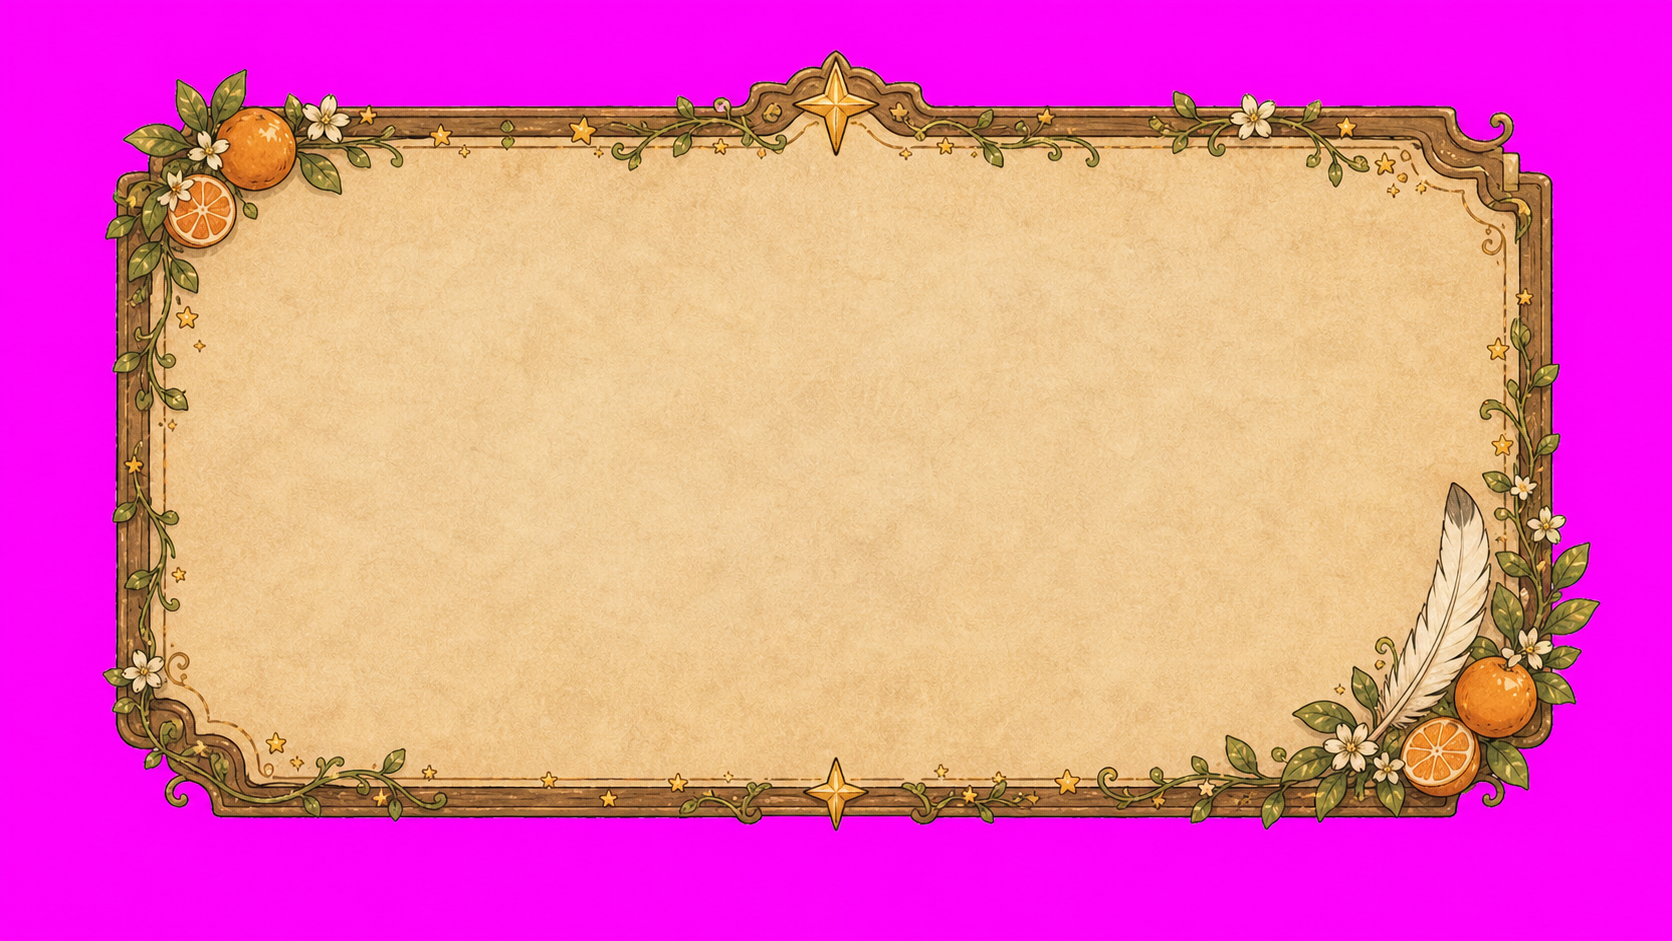
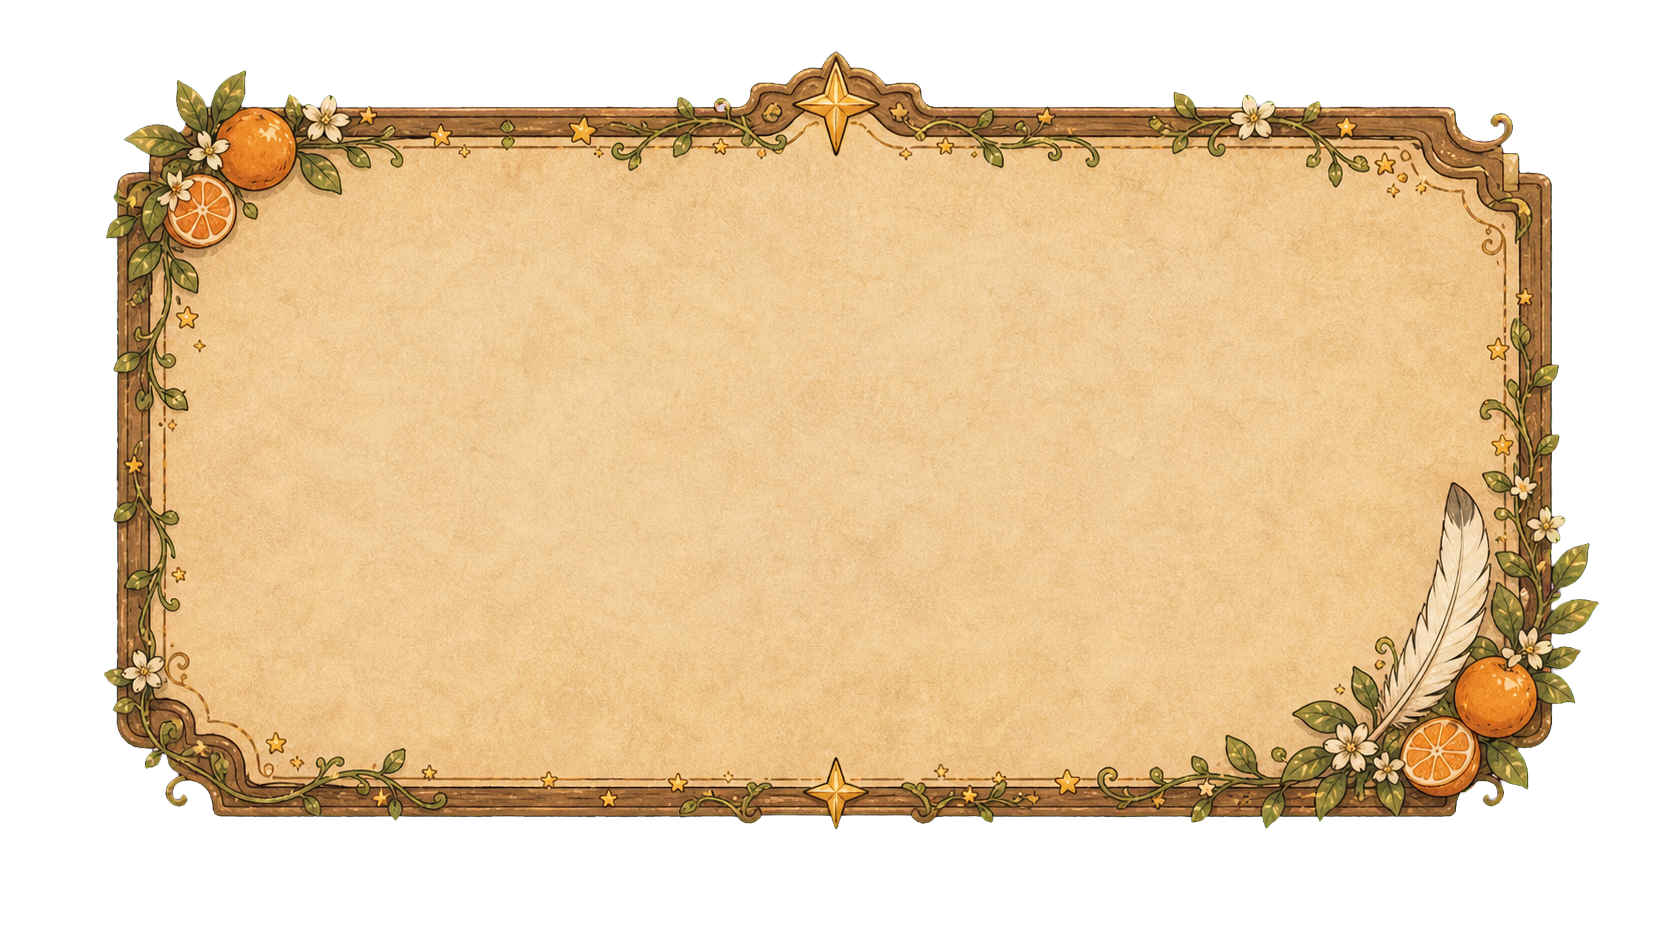
P4.6：P4生成UIアセットの透過処理・表示品質仕上げ

diff --git a/docs/PROGRESS.md b/docs/PROGRESS.md
@@ -2,10 +2,10 @@
 
 ## 現在の状態
 
-- 現在フェーズ: P4.5 DialogueBox・DialogueSystem・NPC基盤
-- 状態: P4.5実装完了。DOM/CSS会話枠、自動会話、NPC会話、会話既読flag保存、必須ポートレート/NPC画像生成、型・lint・build・dev HTTP・Edge headless確認まで完了
+- 現在フェーズ: P4.6 P4生成UIアセットの透過処理・表示品質仕上げ
+- 状態: P4.6実装完了。`star_icon_unlocked.png` と `star_map_panel_frame.png` のクロマキー背景を透明化し、型・lint・build・dev HTTP確認まで完了
 - 次に進むフェーズ: P5 複数敵対応BattleScreen本実装
-- 最終更新日: 2026-06-05
+- 最終更新日: 2026-06-06
 
 ## フェーズ別進捗
 
@@ -18,6 +18,7 @@
 | P3.5 | 道後温泉歩行可能領域改善 | 100% | 実装完了 | 型・lint・build・HTTP確認済み、Edge headless/CDPでG/H確認済み |
 | P4 | 星地図 | 100% | 実装完了 | 画像生成・型・lint・build・HTTP確認済み、Edge headless/CDPで通し確認済み |
 | P4.5 | DialogueBox・DialogueSystem・NPC基盤 | 100% | 実装完了 | 画像生成・型・lint・build・HTTP確認済み、Edge headlessで自動会話/NPC会話確認済み |
+| P4.6 | P4生成UIアセットの透過処理・表示品質仕上げ | 100% | 実装完了 | 透過PNG化・星地図背景上の合成プレビュー・型・lint・build・HTTP確認済み |
 | P5 | 複数敵対応バトル | 0% | 未着手 | 未実行 |
 | P6 | 道後温泉クエスト | 0% | 未着手 | 未実行 |
 | P7 | 松山城クエスト・カゲマサ戦 | 0% | 未着手 | 未実行 |
@@ -592,6 +593,42 @@ P5では複数敵対応BattleScreen本実装に入る。P4で整備した `StarM
 
 - `walkableRects` は矩形ベースの初期調整であり、背景画像の石畳輪郭と完全一致はしていない。
 - 将来、実際のプレイ感に合わせて `walkablePolygons` 化すると、道の斜め形状により自然に合わせられる。
+
+## 2026-06-06 P4.6: P4生成UIアセットの透過処理・表示品質仕上げ
+
+- 状態: 実装完了。
+- 対象外指定に従い、P5 BattleScreen本実装、カード効果、NPC会話追加、新しい星地図機能、松山城探索、道後クエスト完了処理には入っていない。
+- `public/assets/generated/ui/star_icon_unlocked.png` と `public/assets/generated/ui/star_map_panel_frame.png` を直接確認し、緑/マゼンタのクロマキー背景が残っていることを確認。
+- 元画像を `public/assets/generated/_backup/p4_6/` にバックアップした。
+- ローカルのクロマキー除去で、`star_icon_unlocked.png` の緑背景と `star_map_panel_frame.png` のマゼンタ背景を透明化した。
+- 両PNGが `Format32bppArgb` になり、四隅alphaが `0,0,0,0` であることを確認した。
+- 星地図背景上の合成プレビュー `C:\tmp\p4_6_star_map_preview.png` を作成し、解放済み星アイコンと星地図パネル枠が背景になじむことを確認した。
+- `docs/BUGS.md` の `P4-001` を未解決から解決済みに移動した。
+
+### P4.6 対象画像
+
+| ファイル | 処理内容 | 結果 |
+|---|---|---|
+| `public/assets/generated/ui/star_icon_unlocked.png` | 緑クロマキー背景を透明化、境界をsoft matte化、despill適用 | 解放済み星ノード用の透明PNGとして確認済み |
+| `public/assets/generated/ui/star_map_panel_frame.png` | マゼンタクロマキー背景を透明化、境界をsoft matte化、despill適用 | StarMapScreenのDOMパネル背景用の透明PNGとして確認済み |
+
+### P4.6 検証結果
+
+| コマンド / 確認 | 結果 | 備考 |
+|---|---|---|
+| `star_icon_unlocked.png` 透過処理 | 成功 | key color `#02f805`、透明ピクセル 1188070、半透明ピクセル 2870 |
+| `star_map_panel_frame.png` 透過処理 | 成功 | key color `#fd03fa`、透明ピクセル 554672、半透明ピクセル 6988 |
+| アルファ確認 | 成功 | 2件とも `Format32bppArgb`、四隅alpha `0,0,0,0` |
+| StarMapScreen相当の合成プレビュー | 成功 | `C:\tmp\p4_6_star_map_preview.png` で背景なじみを確認 |
+| `npm.cmd run typecheck` | 成功 | `tsc -p tsconfig.json --noEmit` |
+| `npm.cmd run lint` | 成功 | `eslint .` |
+| `npm.cmd run build` | 成功 | Vite build成功、38 modules transformed |
+| `npm.cmd run dev -- --host 127.0.0.1 --port 5206 --strictPort` | 成功 | `/hime-star-journey/` がHTTP 200 |
+
+### P4.6 未解決・次フェーズ送り
+
+- P4.6対象2画像の透過残りは今回解消済み。
+- StarMapScreenの新規機能追加やP5 BattleScreen本実装は未着手。次フェーズで実装する。
 
 ## 2026-06-03 起動用bat追加
 

diff --git a/docs/BUGS.md b/docs/BUGS.md
@@ -57,17 +57,6 @@
 - 暫定対応: 検証スクリプト内で `npm.cmd run dev` を一時起動し、HTTP 200とEdge headless/CDP確認後にプロセスツリーを終了した。
 - 状態: 環境要因。実装コード側の既知不具合ではない。
 
-### P4-001: 一部P4生成UI素材の透過細部調整が未完了
-
-- 発生日: 2026-06-03
-- フェーズ: P4
-- 内容: `star_icon_unlocked.png` と `star_map_panel_frame.png` はP4再実行で画像生成・配置済みだが、クロマキー透過の細部処理はユーザー指示により後回しにした。
-- 再現手順: StarMapScreenで解放済み星アイコンまたは星地図パネル枠を表示する。
-- 期待される挙動: 透明背景PNGとして周囲の背景になじむ。
-- 実際の挙動: 画像生成済みRuntime Assetとして表示できるが、透過品質は後続調整対象。
-- 暫定対応: StarMapScreen実装とビルドを優先し、P5前またはUI仕上げ時に透過処理を再開する。
-- 状態: 未解決。ユーザー指示で後回し。
-
 ### P3.5-001: 道後温泉collisionRectsは完全一致ではない
 
 - 発生日: 2026-06-05
@@ -80,6 +69,18 @@
 - 状態: 未解決。手動プレイでの追加調整待ち。
 
 ## 解決済み
+
+### P4-001: 一部P4生成UI素材の透過細部調整が未完了
+
+- 発生日: 2026-06-03
+- 解決日: 2026-06-06
+- フェーズ: P4 / P4.6
+- 内容: `star_icon_unlocked.png` と `star_map_panel_frame.png` はP4再実行で画像生成・配置済みだったが、クロマキー透過の細部処理を後回しにしていた。
+- 再現手順: StarMapScreenで解放済み星アイコンまたは星地図パネル枠を表示する。
+- 期待される挙動: 透明背景PNGとして周囲の星地図背景になじむ。
+- 対応: `public/assets/generated/_backup/p4_6/` に元画像を退避し、ローカルのクロマキー除去で `star_icon_unlocked.png` の緑背景、`star_map_panel_frame.png` のマゼンタ背景を透明化した。両PNGは `Format32bppArgb` になり、四隅alpha 0を確認した。
+- 確認: 星地図背景上の合成プレビュー `C:\tmp\p4_6_star_map_preview.png` で、不要な四角い背景とクロマキー残りが出ないことを確認した。
+- 状態: 解決済み。
 
 ### ENV-004: P4必須画像生成を実行できない
 

diff --git a/docs/BUILD_CHECKLIST.md b/docs/BUILD_CHECKLIST.md
@@ -278,6 +278,23 @@
 - [x] `npm.cmd run dev` がbase付きURLでHTTP 200を返す。
 - [x] Edge headlessの一時同一オリジンテストで初回自動会話、既読flag保存、案内人NPC会話開始を確認した。
 
+## P4.6 P4生成UIアセットの透過処理・表示品質仕上げ
+
+- [x] `public/assets/generated/ui/star_icon_unlocked.png` の緑クロマキー背景が透明化されている。
+- [x] `public/assets/generated/ui/star_icon_unlocked.png` の四隅alphaが0である。
+- [x] `public/assets/generated/ui/star_icon_unlocked.png` が `Format32bppArgb` の透明PNGとして読み取れる。
+- [x] `public/assets/generated/ui/star_map_panel_frame.png` のマゼンタクロマキー背景が透明化されている。
+- [x] `public/assets/generated/ui/star_map_panel_frame.png` の四隅alphaが0である。
+- [x] `public/assets/generated/ui/star_map_panel_frame.png` が `Format32bppArgb` の透明PNGとして読み取れる。
+- [x] StarMapScreen相当の星地図背景合成プレビューで、解放済み星アイコンが四角い背景なしで表示される。
+- [x] StarMapScreen相当の星地図背景合成プレビューで、星地図パネル枠が四角い背景なしで表示される。
+- [x] `docs/BUGS.md` の `P4-001` が解決済みとして記録されている。
+- [x] `docs/ASSET_TRACKER.md` で `ui_star_icon_unlocked` と `ui_star_map_panel_frame` が `generated` かつ透過処理済みとして記録されている。
+- [x] `npm.cmd run typecheck` が通る。
+- [x] `npm.cmd run lint` が通る。
+- [x] `npm.cmd run build` が通る。
+- [x] `npm.cmd run dev` がbase付きURLでHTTP 200を返す。
+
 ## 星地図
 
 - [x] 道後温泉が解放済み。

diff --git a/docs/DECISIONS.md b/docs/DECISIONS.md
@@ -304,6 +304,16 @@ P4.5では `portrait_hime`、`portrait_shiro`、`npc_dogo_guide`、`npc_yumori_g
 
 Browserプラグインとnode_replは引き続き `windows sandbox failed: spawn setup refresh` で使えなかった。P4.5では一時的な同一オリジンHTMLを使い、Edge headlessで実アプリをiframe操作して、Title -> Prologue -> StarMap -> Explore、初回自動会話、既読flag保存、案内人NPC会話開始を確認した。一時HTMLは確認後に削除した。
 
+## 2026-06-06
+
+### P4.6では既存生成画像を再生成せず透過処理で仕上げる
+
+`star_icon_unlocked.png` と `star_map_panel_frame.png` はP4で生成済みで、絵柄そのものはStarMapScreenの画風に合っていた。今回の問題は緑/マゼンタのクロマキー背景と境界の透過品質に限定されるため、新規画像生成ではなく、元画像をバックアップしたうえでローカルのクロマキー除去、soft matte、despillにより透明PNGへ仕上げる方針にした。
+
+### P4.6ではStarMapScreenの機能追加をしない
+
+今回の目的はP5前の表示品質仕上げであり、星地図ノード、進行判定、遷移、手動セーブなどのP4機能は変更しない。P5 BattleScreen本実装、カード効果、NPC会話追加、松山城探索、道後クエスト完了処理も対象外として維持する。
+
 
 
 